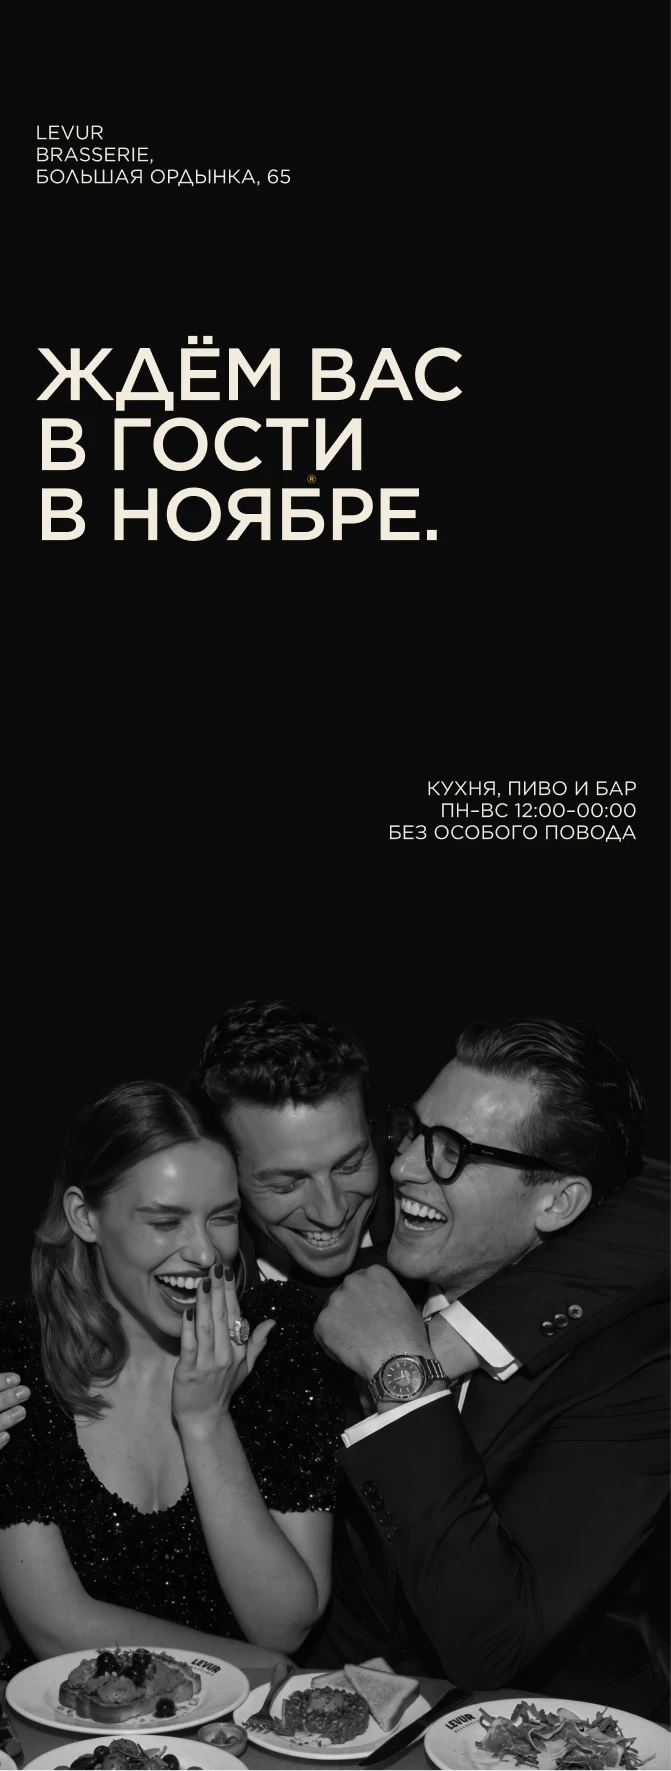
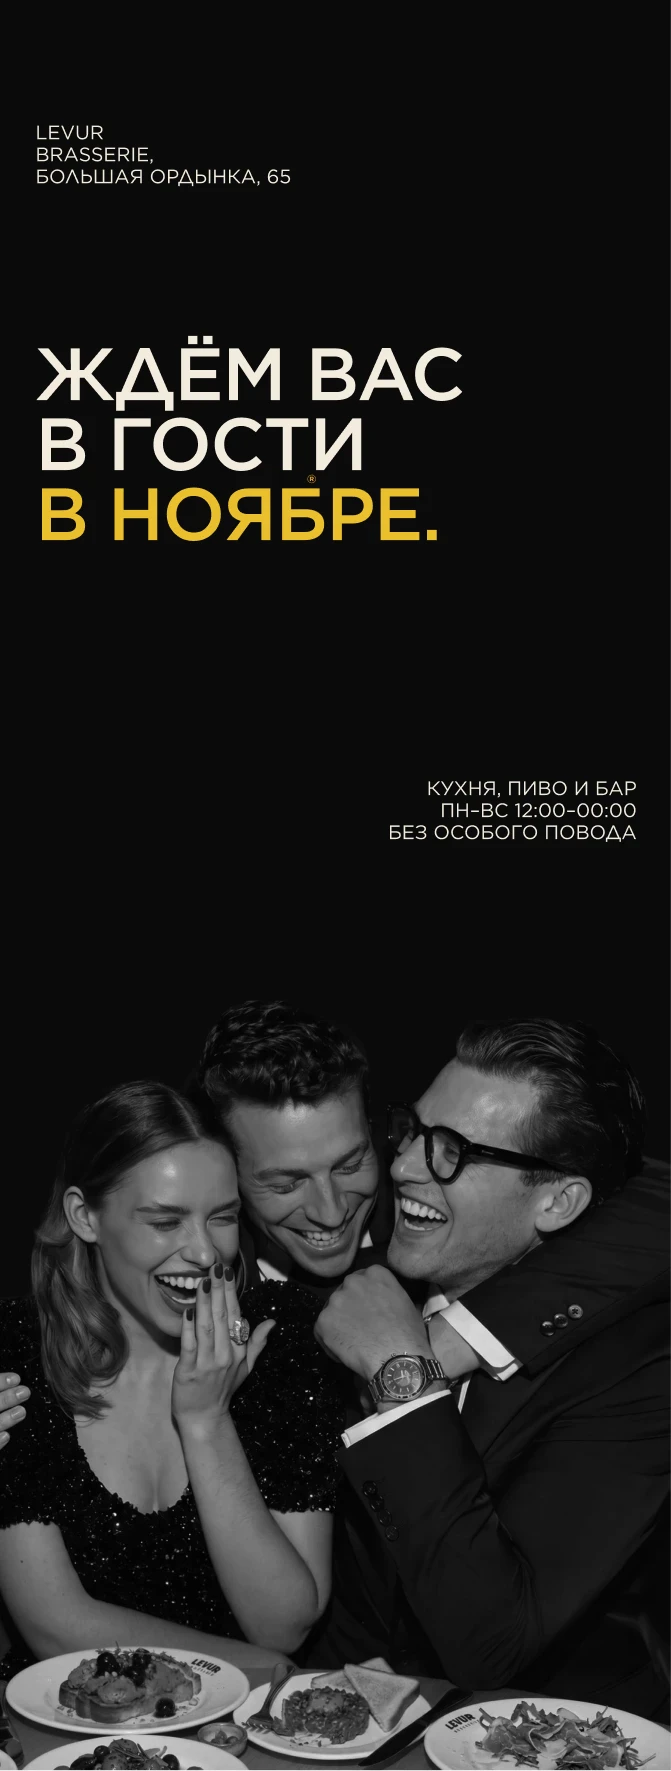
Жёлтый акцент на ЧБ: «в ноябре» в концепции 1 и гротеске, «ЖДЁМ ВАС» в ЧБ скважине

Changed region(s): [[0.0596, 0.2484, 0.6557, 0.3106]]

diff --git a/index.html b/index.html
@@ -115,7 +115,7 @@
           <div class="plate">
             <div class="ly" data-depth="0.35">
               <img class="leaf" src="door-3d/door.webp" alt="">
-              <img class="sticker" data-base="covetour" src="door-3d/sticker-covetour.webp?v=20261028b" alt="Наклейка Covetour с цветным фото на стекле двери LEVUR">
+              <img class="sticker" data-base="covetour" src="door-3d/sticker-covetour.webp?v=20261028n" alt="Наклейка Covetour с цветным фото на стекле двери LEVUR">
               <div class="sheen"></div>
             </div>
             <div class="ly" data-depth="1">
@@ -134,7 +134,7 @@
           <div class="plate">
             <div class="ly" data-depth="0.35">
               <img class="leaf" src="door-3d/door.webp" alt="">
-              <img class="sticker" data-base="orsa" src="door-3d/sticker-orsa.webp?v=20261028b" alt="Наклейка «Ждём вас в гости в ноябре» с адресом и часами на стекле двери LEVUR">
+              <img class="sticker" data-base="orsa" src="door-3d/sticker-orsa.webp?v=20261028n" alt="Наклейка «Ждём вас в гости в ноябре» с адресом и часами на стекле двери LEVUR">
               <div class="sheen"></div>
             </div>
             <div class="ly" data-depth="1">
@@ -171,14 +171,14 @@
           </div>
           <div class="shade"></div>
         </div></div>
-        <figcaption>Вариант 1<span class="opts" role="group" aria-label="Цвет фото"><button type="button" data-img="k1" data-src="door-3d/sticker-keyhole.webp?v=20261028i" aria-pressed="true">Цвет</button><button type="button" data-img="k1" data-src="door-3d/sticker-keyhole-bw.webp?v=20261028m" aria-pressed="false">ЧБ</button></span></figcaption>
+        <figcaption>Вариант 1<span class="opts" role="group" aria-label="Цвет фото"><button type="button" data-img="k1" data-src="door-3d/sticker-keyhole.webp?v=20261028i" aria-pressed="true">Цвет</button><button type="button" data-img="k1" data-src="door-3d/sticker-keyhole-bw.webp?v=20261028n" aria-pressed="false">ЧБ</button></span></figcaption>
       </figure>
       <figure>
         <div class="frame"><div class="view" role="button" tabindex="0" aria-label="Открыть на весь экран">
           <div class="plate">
             <div class="ly" data-depth="0.35">
               <img class="leaf" src="door-3d/door.webp" alt="">
-              <img class="sticker" id="k2" src="door-3d/sticker-poster-grotesk-black.webp?v=20261028m" alt="Постер «Ждём вас в гости в ноябре» с фото в форме замочной скважины на стекле двери LEVUR">
+              <img class="sticker" id="k2" src="door-3d/sticker-poster-grotesk-black.webp?v=20261028n" alt="Постер «Ждём вас в гости в ноябре» с фото в форме замочной скважины на стекле двери LEVUR">
               <div class="sheen"></div>
             </div>
             <div class="ly" data-depth="1">
@@ -299,7 +299,7 @@
   const colorBtns = [...document.querySelectorAll('.swb[data-base]')], logoBtns = [...document.querySelectorAll('[data-logo]')];
   const logo = { orsa: false };
   const color = { covetour: 'black', orsa: 'black' };
-  const src = (b, c, l) => `door-3d/sticker-${b}${l ? '-logo' : ''}${c === 'black' ? '' : '-' + c}.webp?v=20261028b`;
+  const src = (b, c, l) => `door-3d/sticker-${b}${l ? '-logo' : ''}${c === 'black' ? '' : '-' + c}.webp?v=20261028n`;
   function paint() {
     for (const i of stickers) if (i.dataset.base) i.src = src(i.dataset.base, color[i.dataset.base], !!logo[i.dataset.base]);
     colorBtns.forEach(b => b.setAttribute('aria-pressed', String(color[b.dataset.base] === b.dataset.c)));
@@ -320,8 +320,8 @@
   const k2 = document.getElementById('k2'), k2sw = document.getElementById('k2sw');
   const k2fontBtns = [...document.querySelectorAll('[data-k2font]')], k2colBtns = [...k2sw.querySelectorAll('[data-k2c]')];
   const K2 = {
-    grotesk: { light: 'door-3d/sticker-poster-grotesk-light.webp?v=20261028m', black: 'door-3d/sticker-poster-grotesk-black.webp?v=20261028m',
-               green: 'door-3d/sticker-poster-grotesk-green.webp?v=20261028m', wine: 'door-3d/sticker-poster-grotesk-wine.webp?v=20261028m' },
+    grotesk: { light: 'door-3d/sticker-poster-grotesk-light.webp?v=20261028n', black: 'door-3d/sticker-poster-grotesk-black.webp?v=20261028n',
+               green: 'door-3d/sticker-poster-grotesk-green.webp?v=20261028n', wine: 'door-3d/sticker-poster-grotesk-wine.webp?v=20261028n' },
     serif: { light: 'door-3d/sticker-poster-serif.webp?v=20261028e', black: 'door-3d/sticker-poster-serif-dark.webp?v=20261028h',
              green: 'door-3d/sticker-poster-serif-dark-green.webp?v=20261028j', wine: 'door-3d/sticker-poster-serif-dark-wine.webp?v=20261028j' },
   };
